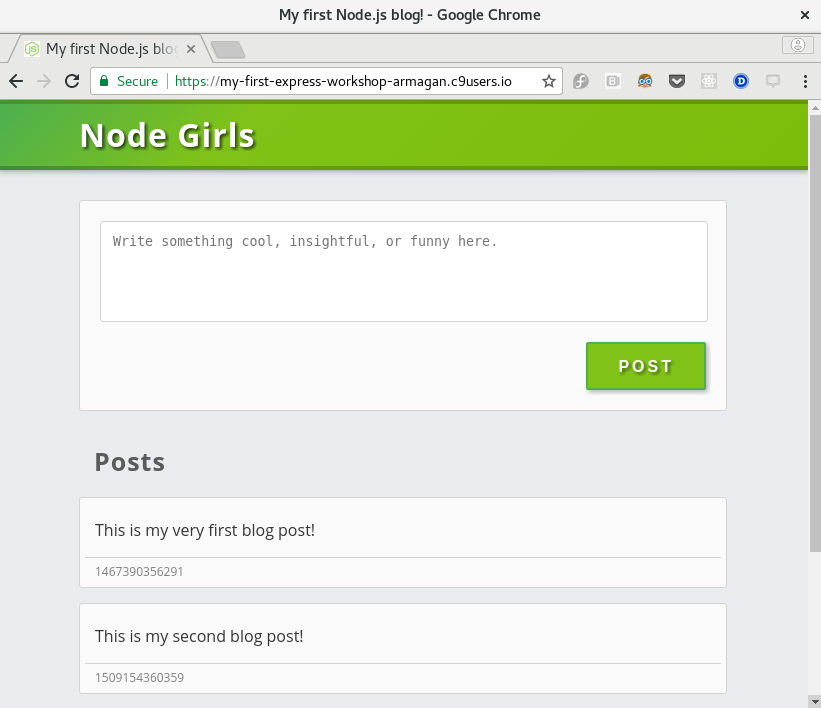
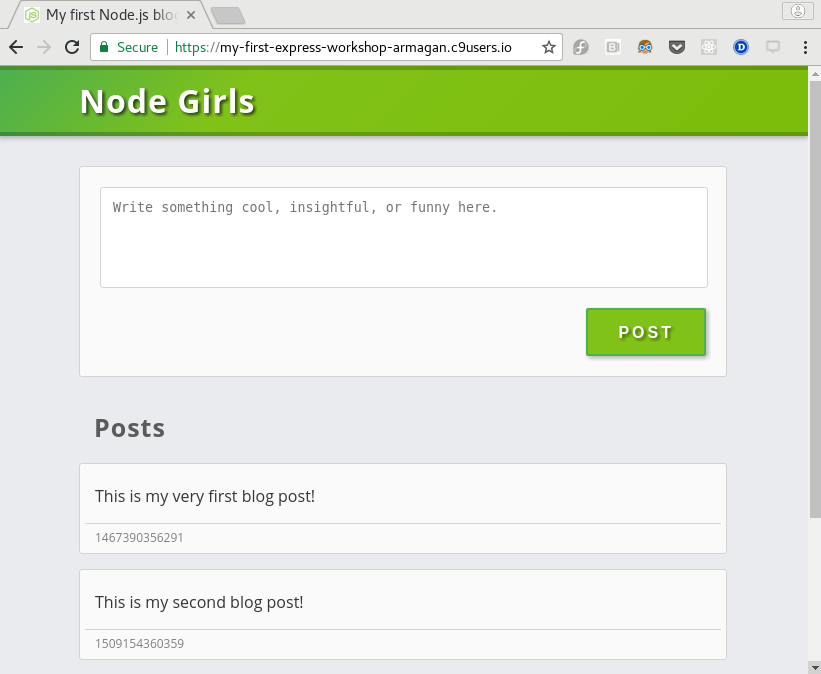
Titled images, cropped slightly + CSS rounded corners & shadows

diff --git a/assets/main.scss b/assets/main.scss
@@ -55,3 +55,8 @@ pre {
     font-size: 14px;
   }
 }
+
+.imgbox {
+  box-shadow: black 0px 0px 10px;
+  border-radius: 5px;
+}

diff --git a/_steps/step03.md b/_steps/step03.md
@@ -35,7 +35,7 @@ Since we are going to be building a server, we should probably talk about what a
 
 A **server** is a computer program that provides some kind of functionality to other programs (called **clients**). The client and server programs are often (but not always) running on different computers.  We often also refer to the computer that the server software is running on as a server too.
 
-![Server flow](https://files.gitter.im/heron2014/FiiK/server.png)
+![Server flow](../assets/step3-a.png){:class="img-responsive imgbox" title="Server flow"}
 
 A server "listens" for requests sent to it from clients.  Depending on the request the server may perform some kind of work and then send a response back to the client.  For example, client might send a request for information that the server looks up in a database and then sends back as the response.  If the server cannot fulfil the request for some reason then the response could be an error message like the famous *'Error 404: File not found.'*  
 
@@ -129,6 +129,6 @@ In the terminal you will see it display the "Server has started listening" messa
 
 It will look a little like this:
 
-![image-title-here](../assets/step3-b.png){:class="img-responsive"}
+![Running node server.js in the terminal](../assets/step3-b.png){:title="Running node server.js in the terminal" class="img-responsive imgbox"}
 
 If you see this, congratulations! :clap: :clap: You have built yourself a server and started it running!

diff --git a/_steps/step09.md b/_steps/step09.md
@@ -150,7 +150,7 @@ The `push()` method adds one or more elements to the end of an array and returns
 
 To test this add a `console.log(posts.blogposts)`, (restart your server), and create a new post.  You should see the updated array logged in the terminal with your new post object.
 
-![image-title-here](../assets/step9-b.png){:class="img-responsive"}
+![Checking our modified blogposts array in the Terminal](../assets/step9-b.png){:class="img-responsive imgbox" title="Checking our modified blogposts array in the Terminal"}
 
 If it isn't working for you, you can double-check that your code is right with the solution below.
 

diff --git a/_steps/step04.md b/_steps/step04.md
@@ -102,7 +102,7 @@ Then press ENTER and you should see the "Hello World!" message displayed in your
 
 It will look a little like this:
 
-![image-title-here](../assets/step4-b.png){:class="img-responsive"}
+![Testing the /hello endpoint in the browser](../assets/step4-b.png){:title="Testing the /hello endpoint in the browser" class="img-responsive imgbox"}
 
 Everytime you request a webpage in your browser, it is doing a GET request.  Sending GET requests is probably the most common daily activity in the world today.  :smile:
 

diff --git a/_steps/step06.md b/_steps/step06.md
@@ -127,7 +127,7 @@ In real world apps you should check for things like whether the file is there fi
 
 You should see the same page as before, but this time with a post displayed:
 
-![image-title-here](../assets/step6-b.png){:class="img-responsive"}
+![Checking display of posts in the Browser](../assets/step6-b.png){:class="img-responsive imgbox" title="Checking display of posts in the Browser"}
 
 If it isn't working for you, you can double-check that your code is right with the solution below:
 

diff --git a/_steps/step08.md b/_steps/step08.md
@@ -74,7 +74,7 @@ Restart your server again and try to create some new posts.
 
 You should see your new posts added to the page.
 
-![image-title-here](../assets/step8-b.png){:class="img-responsive"}
+![Checking new post is added to the page in the Browser](../assets/step8-b.png){:class="img-responsive imgbox" title="Checking new post is added to the page in the Browser"}
 
 But remember that we haven't actually saved the new post yet so if you refresh the page they all disappear.  
 

diff --git a/_steps/step05.md b/_steps/step05.md
@@ -45,7 +45,7 @@ app.use(express.static("public"));
 
  If you see a `Node Girls` page, then your static assets have been successfully served.
 
-![image-title-here](../assets/step5-b.png){:class="img-responsive"}
+![Viewing the app in the Browser](../assets/step5-b.png){:title="Viewing the app in the Browser" class="img-responsive imgbox"}
 
 This line tells `app` to use the `express.static()` middleware function and to point it at the folder `public`.
 

diff --git a/_steps/step07.md b/_steps/step07.md
@@ -95,7 +95,7 @@ Test this by:
 
 In your terminal you should see your post logged:
 
-![image-title-here](../assets/step7-b.png){:class="img-responsive"}
+![Checking the new post object in the Terminal](../assets/step7-b.png){:class="img-responsive imgbox" title="Checking the new post object in the Terminal"}
 
 If it isn't working for you, you can double-check that your code is right with the solution below:
 
